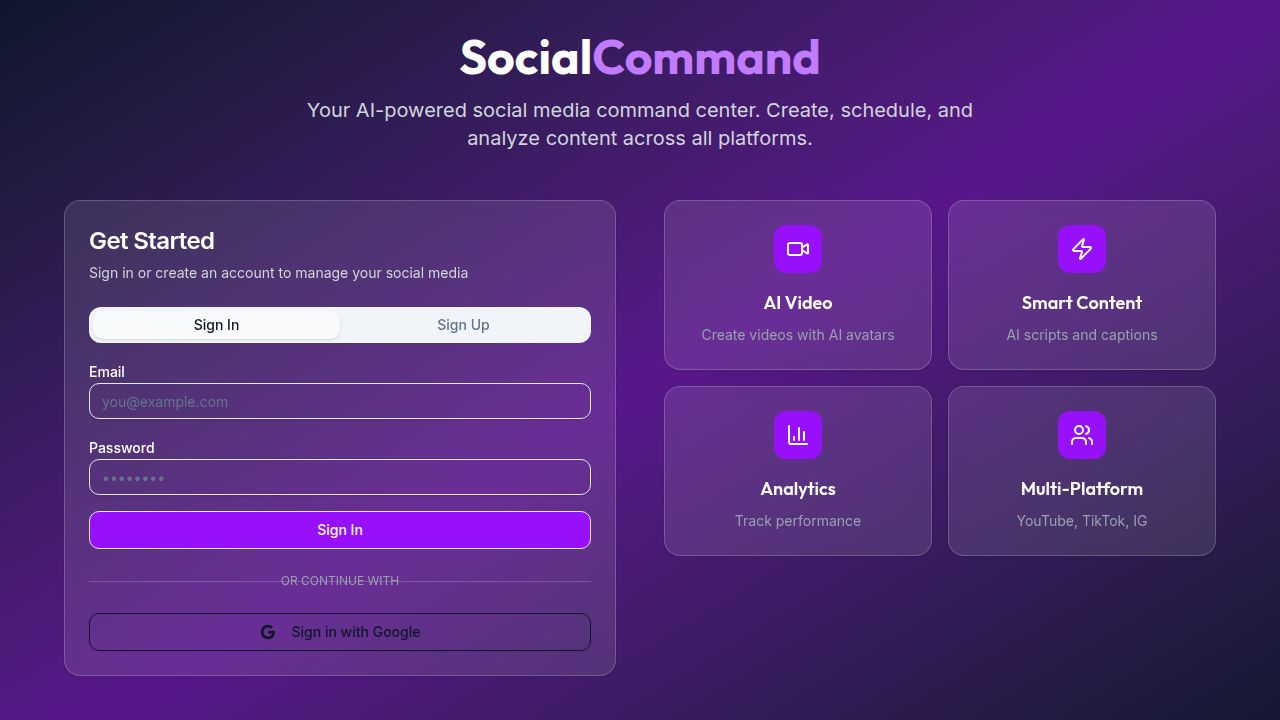
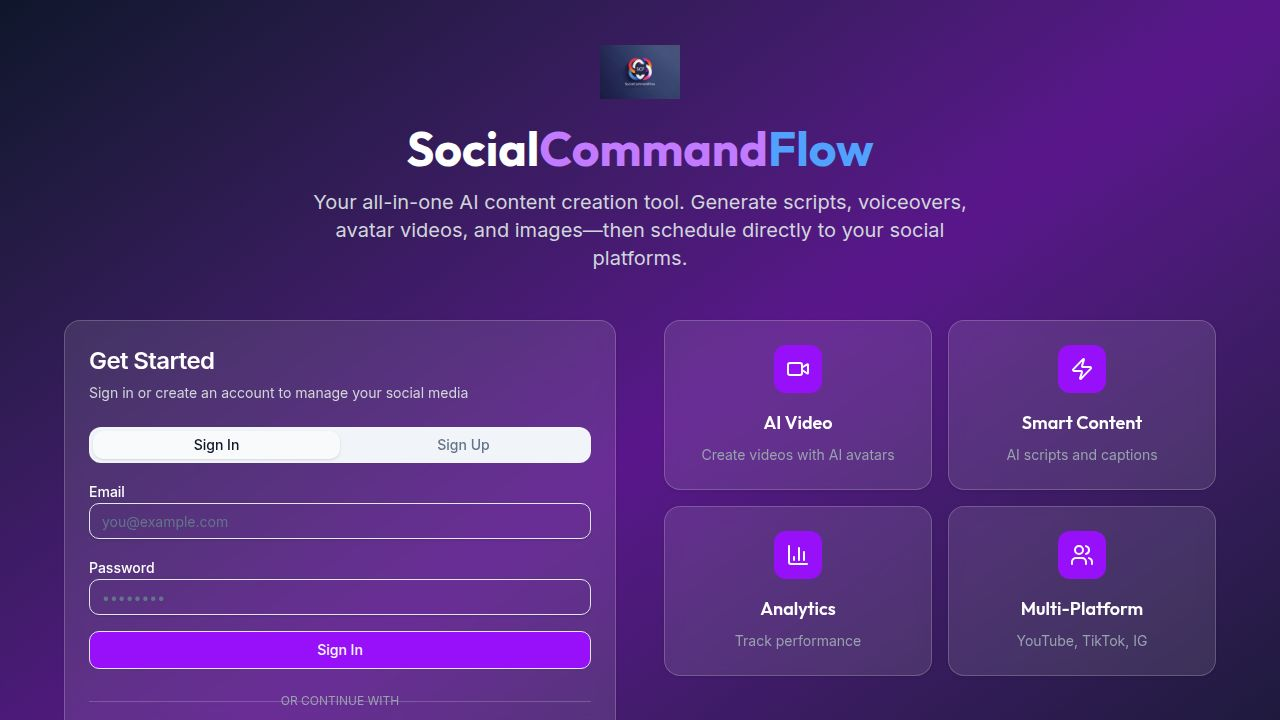
Improve website appearance and mobile usability on landing page
Adjust landing page layout for better mobile responsiveness, including logo size and text scaling, and update container padding.

Replit-Commit-Author: Agent
Replit-Commit-Session-Id: 75572201-90b1-4220-8221-e152abdb9b7f
Replit-Commit-Checkpoint-Type: full_checkpoint
Replit-Commit-Event-Id: 887e236f-f49e-49a5-bab1-1c8311d7d512
Replit-Commit-Screenshot-Url: https://storage.googleapis.com/screenshot-production-us-central1/776bf55e-733a-4d3d-af04-dcddb1868f6d/75572201-90b1-4220-8221-e152abdb9b7f/xDHAlgd
Replit-Helium-Checkpoint-Created: true

Changed region(s): [[0.0312, 0.275, 0.9688, 1.0], [0.25, 0.0306, 0.75, 0.2444], [0.9062, 0.3361, 0.9688, 0.3667]]

diff --git a/client/src/pages/Landing.tsx b/client/src/pages/Landing.tsx
@@ -29,14 +29,14 @@ export default function Landing() {
   return (
     <div className="min-h-screen bg-gradient-to-br from-slate-900 via-purple-900 to-slate-900">
       <div className="container mx-auto px-4 py-8">
-        <div className="text-center mb-12">
-          <div className="flex items-center justify-center gap-4 mb-4">
-            <img src="/logo.png" alt="SocialCommandFlow" className="w-20 h-20 object-contain" />
+        <div className="text-center mb-8 md:mb-12 px-2">
+          <div className="flex items-center justify-center gap-3 mb-3">
+            <img src="/logo.png" alt="SocialCommandFlow" className="w-14 h-14 md:w-20 md:h-20 object-contain" />
           </div>
-          <h1 className="text-5xl font-bold text-white mb-4">
+          <h1 className="text-3xl md:text-5xl font-bold text-white mb-3 md:mb-4">
             Social<span className="text-purple-400">Command</span><span className="text-blue-400">Flow</span>
           </h1>
-          <p className="text-xl text-gray-300 max-w-2xl mx-auto">
+          <p className="text-base md:text-xl text-gray-300 max-w-2xl mx-auto px-2">
             Your all-in-one AI content creation tool. Generate scripts, voiceovers, avatar videos, and images—then schedule directly to your social platforms.
           </p>
         </div>
